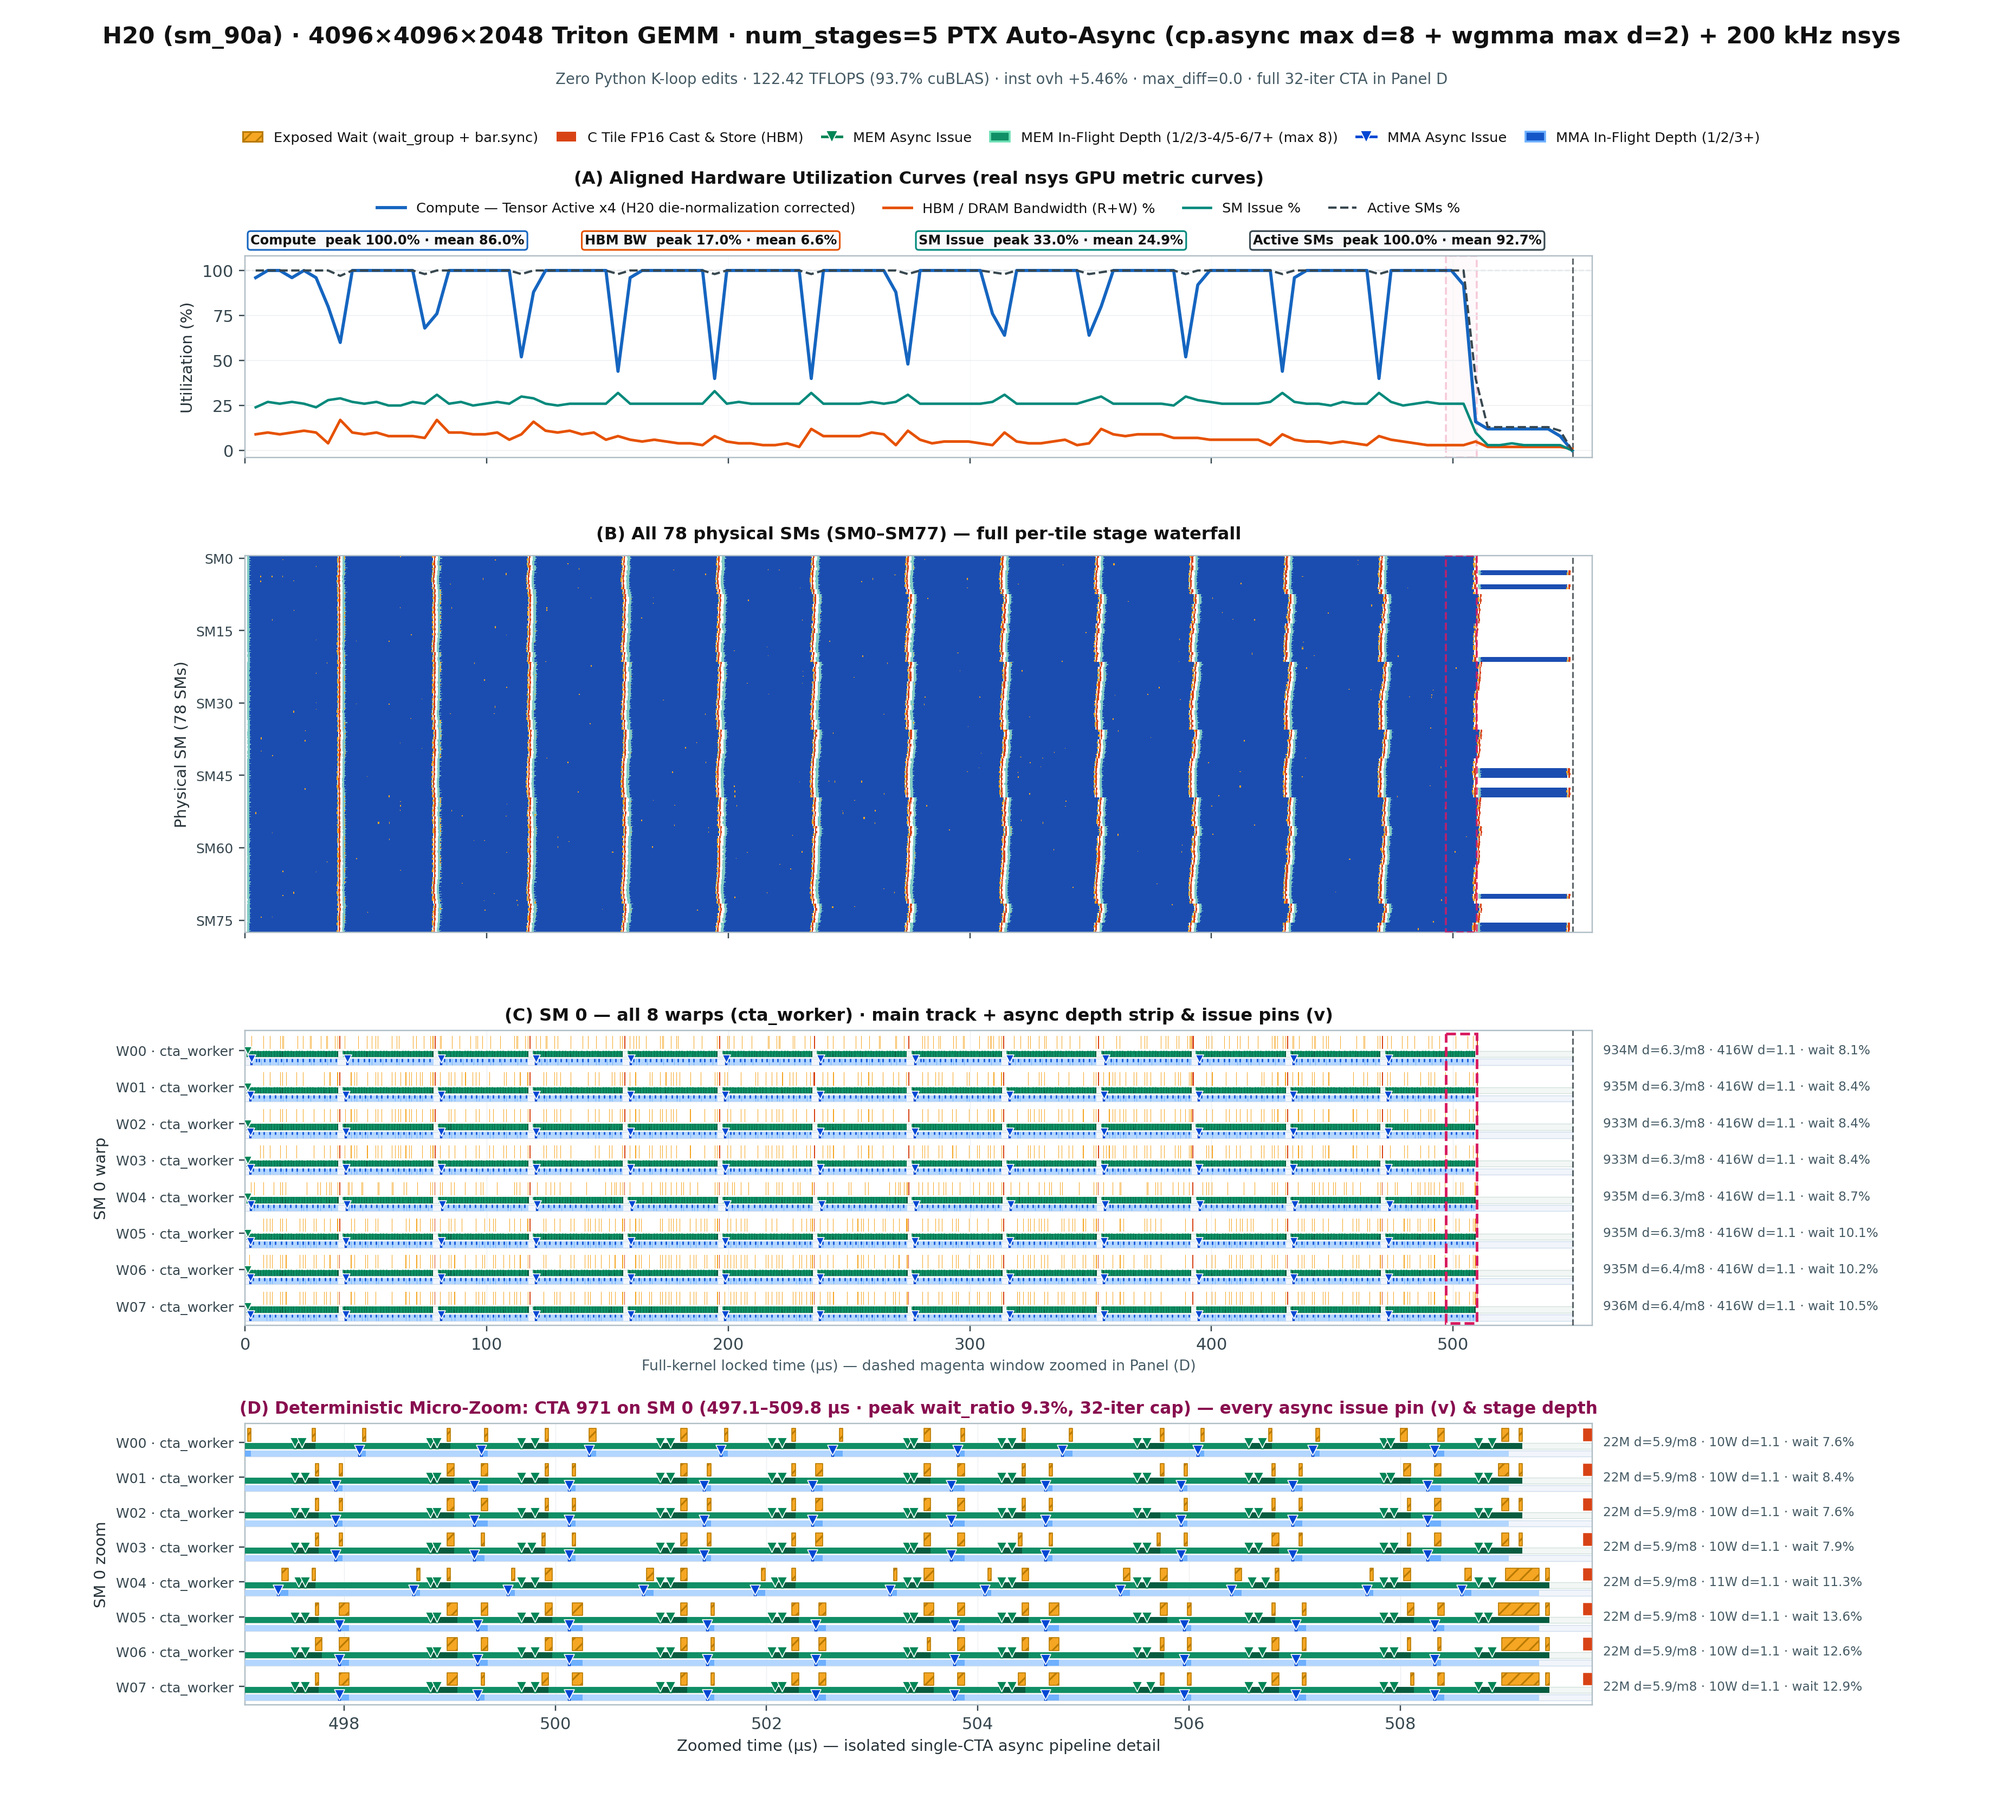
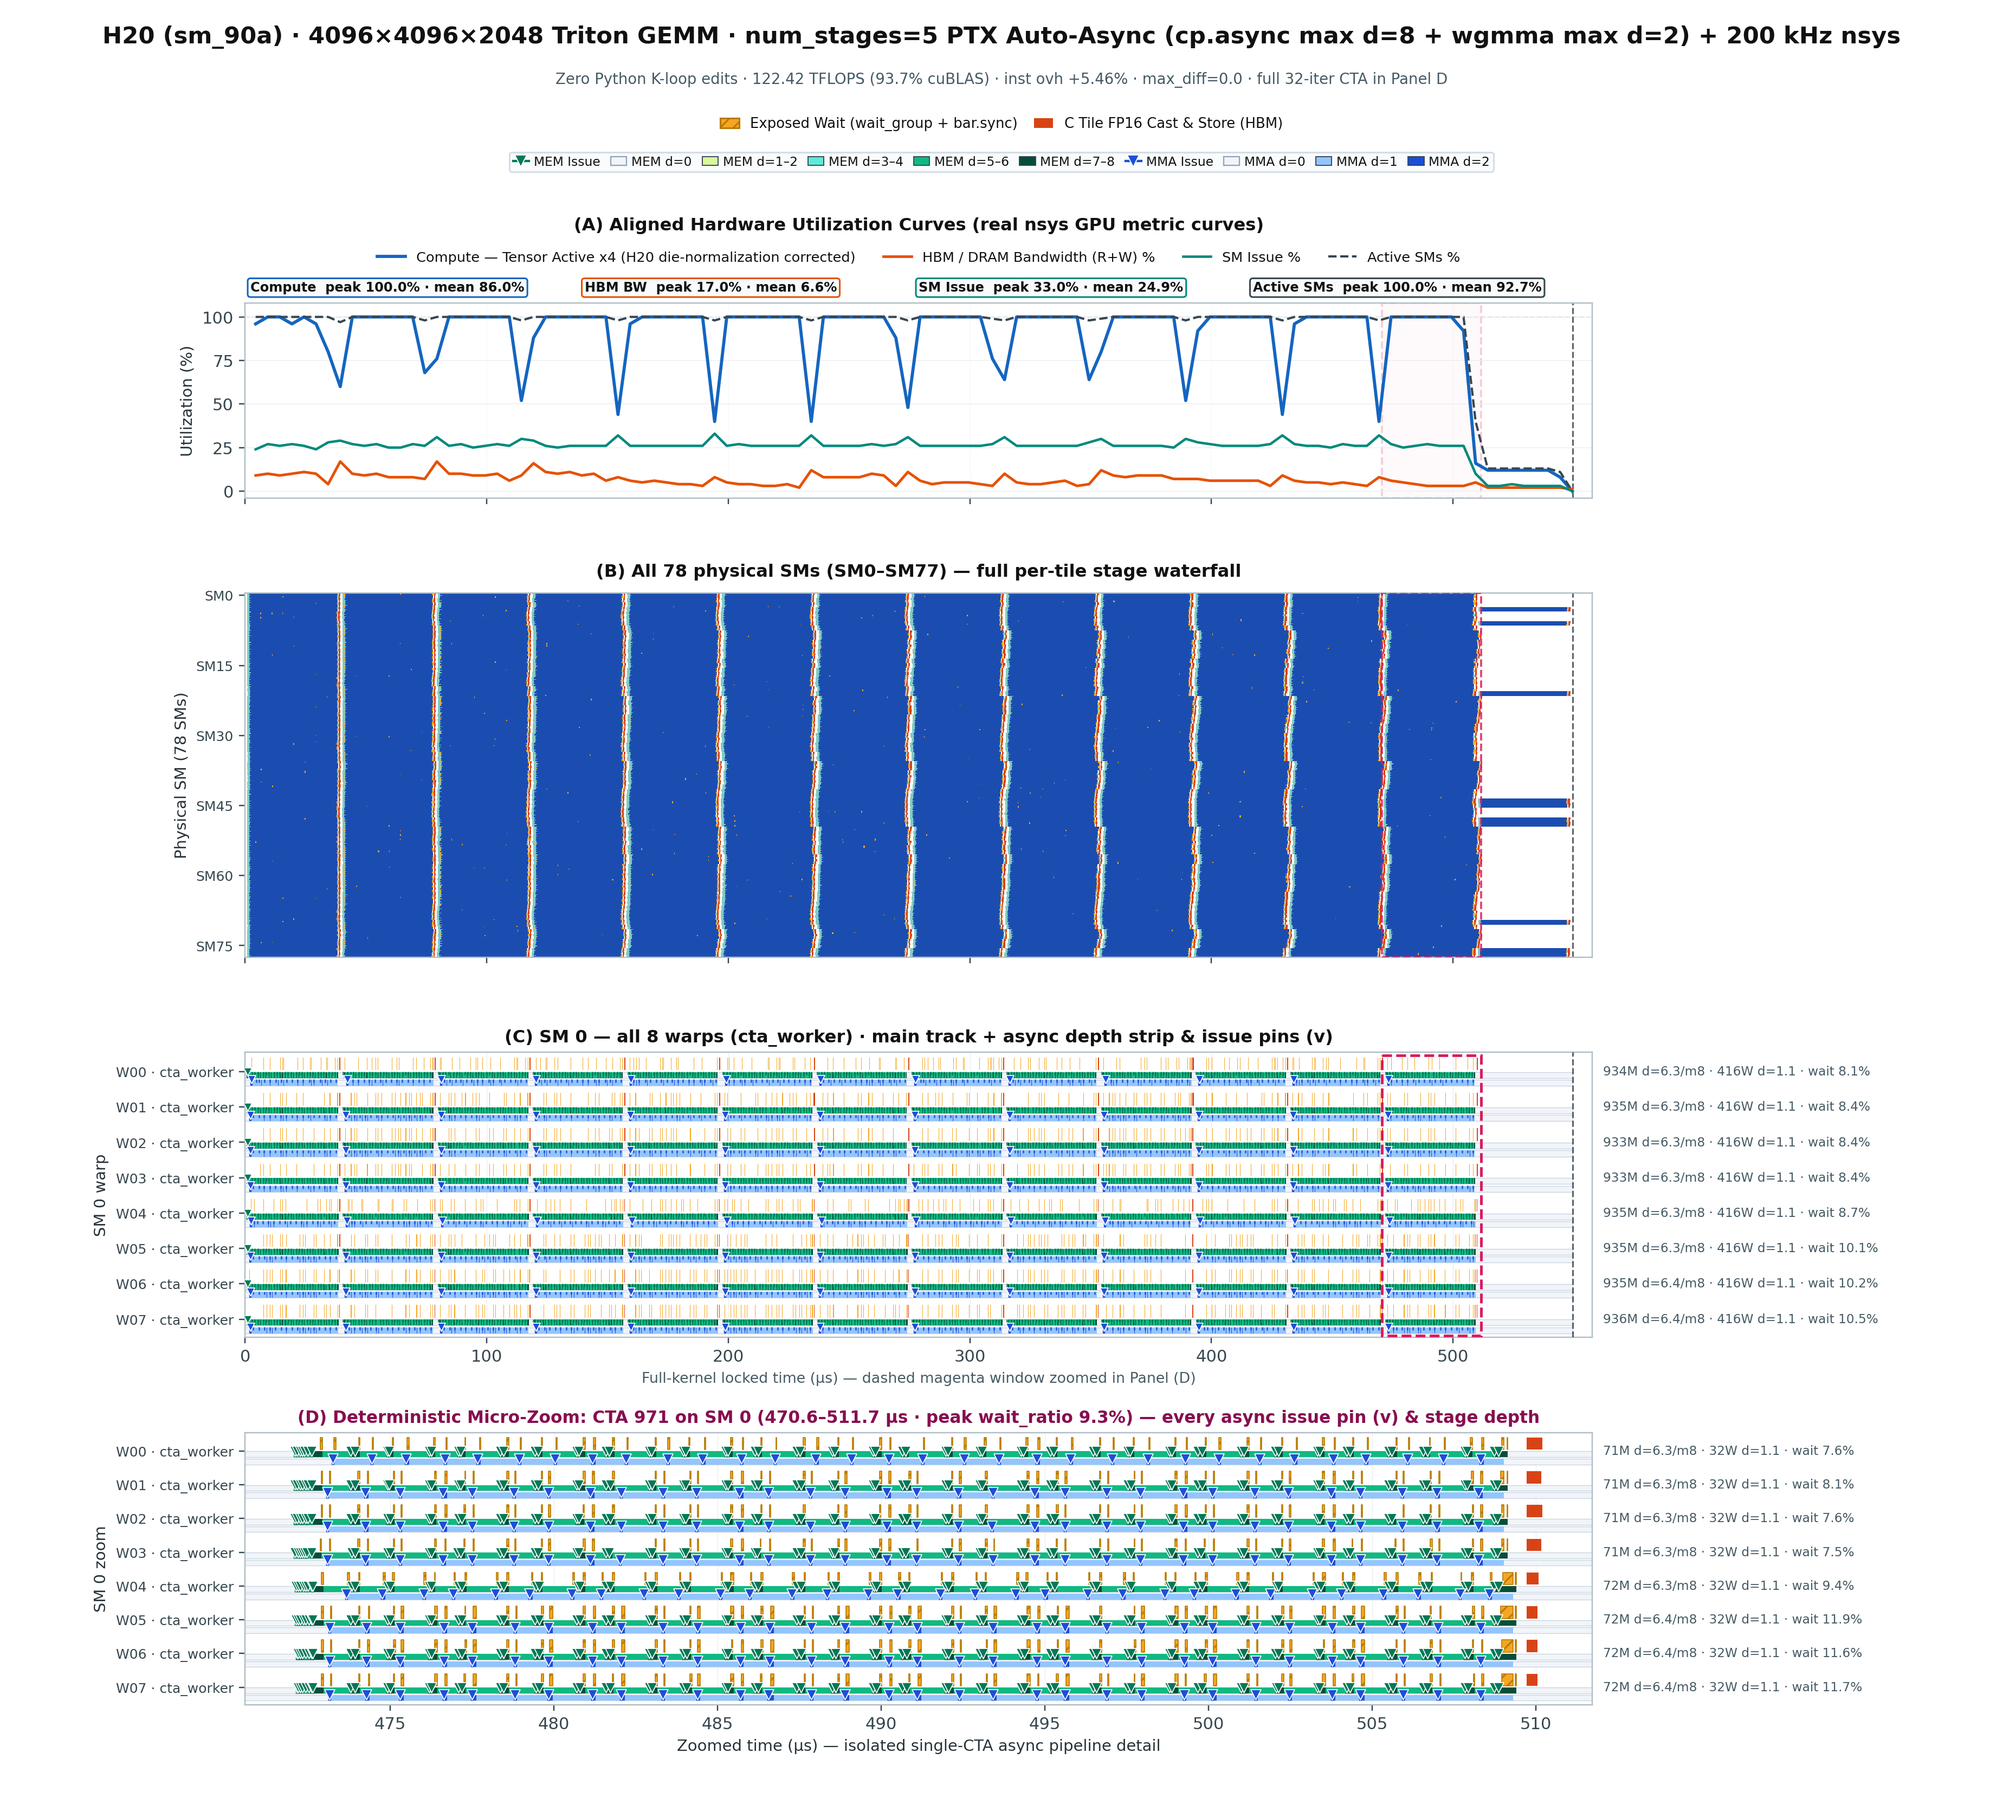
viz: add explicit per-depth color swatches (d=0..max) and full-CTA prologue/drain zoom

diff --git a/weaveprof/viz.py b/weaveprof/viz.py
@@ -70,51 +70,88 @@ _STAGE_DRAW_PRIORITY = {
 _ASYNC_ENGINE_STYLE: Dict[str, Dict[str, Any]] = {
     "mem": {
         "short": "mem",
-        # Unified emerald/green family: 5-shade depth strip + vivid emerald-green ▼ issue pin
-        "depth_colors": ("#B2F2D8", "#6CE0B5", "#28BF8C", "#108E65", "#075C40"),
-        "rail_bg": "#F2F7F5",
-        "rail_ec": "#D2E0DC",
-        "pin_color": "#008556",                              # vivid emerald green ▼ (distinct from blue, never near-black)
+        # High-contrast 5-stop sequential ramp (Lime -> Aqua-Mint -> Vivid Emerald -> Forest -> Deep Pine)
+        "depth_colors": ("#D9F99D", "#5EEAD4", "#10B981", "#047857", "#022C22"),
+        "rail_bg": "#F1F5F9",
+        "rail_ec": "#CBD5E1",
+        "pin_color": "#047857",                              # crisp dark emerald ▼ issue pin
         "pin_label": "Mem Async Issue (v)",
-        "depth_label": "Mem In-Flight Depth (1/2/3/4/5+)",
+        "depth_label": "Mem In-Flight Depth",
         "panel_b_color": "#0E8561",
     },
     "mma": {
         "short": "mma",
-        # Unified azure/cobalt family: 5-shade depth strip + vivid cobalt-blue ▼ issue pin
-        "depth_colors": ("#B3D6FF", "#6EB0FF", "#2E80F0", "#1455C8", "#0B3282"),
-        "rail_bg": "#F1F5FB",
-        "rail_ec": "#CFDCEB",
-        "pin_color": "#0047D4",                              # vivid cobalt blue ▼ (pure blue, never purple/near-black)
+        # High-contrast sequential azure/cobalt ramp
+        "depth_colors": ("#DBEAFE", "#93C5FD", "#3B82F6", "#1D4ED8", "#1E3A8A"),
+        "rail_bg": "#F1F5F9",
+        "rail_ec": "#CBD5E1",
+        "pin_color": "#1D4ED8",                              # vivid cobalt blue ▼ issue pin
         "pin_label": "MMA Async Issue (v)",
-        "depth_label": "MMA In-Flight Depth (1/2/3/4/5+)",
+        "depth_label": "MMA In-Flight Depth",
         "panel_b_color": "#1B4DB1",
     },
 }
 
 
-def _depth_to_bucket(depth: int, scale_max: int) -> int:
-    """Map integer in-flight depth >= 1 into 5 monotonic color buckets (0..4)."""
-    if scale_max >= 7:
-        # Deep pipelines (e.g. Triton num_stages=5..6 -> 6..10 cp.async groups): 1, 2, 3-4, 5-6, 7+
-        if depth <= 1:
-            return 0
-        if depth == 2:
-            return 1
-        if depth <= 4:
-            return 2
-        if depth <= 6:
-            return 3
-        return 4
-    return min(4, max(0, int(depth) - 1))
+def _depth_bins_spec(eng: str, scale_max: int) -> List[Tuple[int, int, str, str]]:
+    """Return explicit ``(lo_depth, hi_depth, hex_color, short_label)`` bins for ``depth >= 1``.
+
+    Adapts to ``scale_max`` so every active depth step (including paired A+B ``cp.async`` steps
+    ``2, 4, 6, 8`` on deep-pipelined Triton GEMM and exact integer steps ``1, 2, 3`` on CDNA3 / TMA)
+    gets a perceptually distinct color AND an exact depth label in the legend.
+    """
+    smax = max(1, int(scale_max))
+    if eng == "mma":
+        if smax <= 1:
+            return [(1, 1, "#2563EB", "d=1")]
+        if smax == 2:
+            return [(1, 1, "#93C5FD", "d=1"), (2, 2, "#1D4ED8", "d=2")]
+        if smax == 3:
+            return [(1, 1, "#BFDBFE", "d=1"), (2, 2, "#3B82F6", "d=2"), (3, 3, "#1E3A8A", "d=3")]
+        return [
+            (1, 1, "#DBEAFE", "d=1"),
+            (2, 2, "#60A5FA", "d=2"),
+            (3, 3, "#2563EB", "d=3"),
+            (4, smax, "#1E3A8A", "d=4" if smax == 4 else f"d=4–{smax}"),
+        ]
+    # MEM engine (`cp.async` / `TMA` / `vmcnt`)
+    if smax <= 1:
+        return [(1, 1, "#10B981", "d=1")]
+    if smax == 2:
+        return [(1, 1, "#86EFAC", "d=1"), (2, 2, "#047857", "d=2")]
+    if smax == 3:
+        return [(1, 1, "#BEF264", "d=1"), (2, 2, "#10B981", "d=2"), (3, 3, "#064E3B", "d=3")]
+    if smax == 4:
+        return [
+            (1, 1, "#D9F99D", "d=1"),
+            (2, 2, "#5EEAD4", "d=2"),
+            (3, 3, "#10B981", "d=3"),
+            (4, 4, "#064E3B", "d=4"),
+        ]
+    if smax in (5, 6):
+        return [
+            (1, 1, "#D9F99D", "d=1"),
+            (2, 2, "#6EE7B7", "d=2"),
+            (3, 3, "#10B981", "d=3"),
+            (4, 4, "#047857", "d=4"),
+            (5, smax, "#022C22", "d=5" if smax == 5 else f"d=5–{smax}"),
+        ]
+    # smax >= 7 (e.g. Triton num_stages=5 -> 8 cp.async groups stepping 2, 4, 6, 8)
+    return [
+        (1, 2, "#D9F99D", "d=1–2"),
+        (3, 4, "#5EEAD4", "d=3–4"),
+        (5, 6, "#10B981", "d=5–6"),
+        (7, smax, "#064E3B", f"d=7–{smax}"),
+    ]
 
 
-def _depth_scale_label(scale_max: int) -> str:
-    if scale_max >= 7:
-        return f"1/2/3-4/5-6/7+ (max {scale_max})"
-    if scale_max >= 4:
-        return f"1/2/3/4/5+ (max {scale_max})"
-    return "1/2/3+"
+def _depth_to_bucket_color(eng: str, depth: int, scale_max: int) -> Tuple[int, str]:
+    bins = _depth_bins_spec(eng, scale_max)
+    d_i = max(1, int(depth))
+    for idx, (lo, hi, col, _lbl) in enumerate(bins):
+        if lo <= d_i <= hi:
+            return idx, col
+    return len(bins) - 1, bins[-1][2]
 
 # Dual-color Inter-Node vs Intra-Node Fabric Palette (NVIDIA IB/RDMA vs NVLink, AMD RDMA vs xGMI).
 # Warm crimson / amber is strictly reserved for Inter-Node RDMA / IB; cool teal / royal blue for
@@ -1027,8 +1064,9 @@ def _pick_micro_zoom_window(
         its = cta_iter_ts.get(c_id) or _dedup_sorted(cta_issues.get(c_id, ()))
         n_it = len(its)
         w_us = cta_wait.get(c_id, 0.0)
-        if n_it > 48:
-            # Cap strictly to 32 iterations centered on worst wait bubble (or steady midpoint)
+        if n_it > 108:
+            # Cap strictly to 32 iterations centered on worst wait bubble when CTA has >108 issues
+            # (Note: 32-K-tile GEMM with 2 cp.async + 1 wgmma per K-tile emits 96 issues <= 108, preserving full prologue & drain!)
             ws = cta_wait_spans.get(c_id, [])
             if ws:
                 peak_t = max(ws, key=lambda x: x[1] - x[0])[0]
@@ -1362,7 +1400,7 @@ def _render_warp_panel(
                 for s0, s1, d in d_segs:
                     cx0, cx1 = max(x_lo, s0), min(x_hi, s1)
                     if cx1 > cx0:
-                        bucket = _depth_to_bucket(d, smax)
+                        bucket, _bcol = _depth_to_bucket_color(eng, d, smax)
                         depth_polys[(eng, bucket)].append([(cx0, y_top), (cx1, y_top), (cx1, y_bot), (cx0, y_bot)])
 
                 # Prominent Fixed-Pixel ▼ Async Issue Pins (with clean Adaptive LOD so emerald depth strip stays crisp!)
@@ -1429,7 +1467,8 @@ def _render_warp_panel(
                     rail_polys[eng], facecolors=st["rail_bg"], edgecolors=st["rail_ec"],
                     linewidths=0.45, zorder=2.2,
                 ))
-            for bucket, dcol in enumerate(st["depth_colors"]):
+            bins_eng = _depth_bins_spec(eng, eng_scale_max.get(eng, 1))
+            for bucket, (_lo_d, _hi_d, dcol, _dlbl) in enumerate(bins_eng):
                 polys = depth_polys.get((eng, bucket))
                 if polys:
                     ax.add_collection(PolyCollection(
@@ -1782,7 +1821,8 @@ def render_swhw_overview_png(
                         label=desc,
                     ))
 
-        # Add clean async engine legend handles (Issue ▼ pin + dynamic 5-shade In-Flight Depth strip) on demand!
+        # Build dedicated, crystal-clear per-depth color key (`async_depth_handles`) so every shade has its exact `d=` label!
+        async_depth_handles: List[Any] = []
         rep_eng_max: Dict[str, int] = {}
         for eng in active_async_engines:
             by_wc: Dict[Tuple[int, int], List[Tuple[float, float]]] = defaultdict(list)
@@ -1793,17 +1833,23 @@ def render_swhw_overview_png(
 
         for eng in active_async_engines:
             st = _ASYNC_ENGINE_STYLE[eng]
-            top_legend_handles.append(Line2D(
+            eng_u = eng.upper()
+            async_depth_handles.append(Line2D(
                 [0], [0], marker="v", color=st["pin_color"], markerfacecolor=st["pin_color"],
-                markeredgecolor="#FFFFFF", markeredgewidth=0.6, markersize=7.5, lw=1.6,
-                label=f"{eng.upper()} Async Issue",
+                markeredgecolor="#FFFFFF", markeredgewidth=0.6, markersize=7.2, lw=1.4,
+                label=f"{eng_u} Issue",
             ))
             if has_async_depth.get(eng):
-                smax = rep_eng_max.get(eng, 3)
-                top_legend_handles.append(Patch(
-                    facecolor=st["depth_colors"][3], edgecolor=st["depth_colors"][1], linewidth=1.2,
-                    label=f"{eng.upper()} In-Flight Depth ({_depth_scale_label(smax)})",
+                smax = max(1, rep_eng_max.get(eng, 1))
+                async_depth_handles.append(Patch(
+                    facecolor=st["rail_bg"], edgecolor="#94A3B8", linewidth=0.75,
+                    label=f"{eng_u} d=0",
                 ))
+                for _lo_d, _hi_d, dcol, dlbl in _depth_bins_spec(eng, smax):
+                    async_depth_handles.append(Patch(
+                        facecolor=dcol, edgecolor="#334155", linewidth=0.6,
+                        label=f"{eng_u} {dlbl}",
+                    ))
 
         def _span_color(sp: Mapping[str, Any]) -> str:
             if sp.get("async_engine") in _ASYNC_ENGINE_STYLE:
@@ -1811,17 +1857,24 @@ def render_swhw_overview_png(
             lbl = str(sp.get("label") or sp["sem"]).strip()
             return stage_color_map.get((sp["sem"], lbl), STAGE_COLORS.get(sp["sem"], _DEFAULT_COLOR))[0]
 
-        n_leg_rows = 1
+        has_second_async_leg = bool(async_depth_handles)
         if top_legend_handles:
             n_leg_cols = min(len(top_legend_handles), 7)
-            n_leg_rows = (len(top_legend_handles) + n_leg_cols - 1) // max(n_leg_cols, 1)
-            leg_y = 0.934 if has_zoom else (0.928 if has_hw else 0.916)
+            leg_y = (0.942 if has_second_async_leg else 0.934) if has_zoom else (0.934 if has_hw else 0.916)
             fig.legend(
                 handles=top_legend_handles, loc="upper center", bbox_to_anchor=(0.5, leg_y),
                 ncol=n_leg_cols, frameon=False,
-                fontsize=7.9 if n_leg_cols >= 7 else 8.4,
-                handlelength=1.35 if n_leg_cols >= 7 else 1.4,
-                columnspacing=0.95 if n_leg_cols >= 7 else 1.35,
+                fontsize=8.1 if n_leg_cols >= 7 else 8.5,
+                handlelength=1.35, columnspacing=1.15,
+            )
+        if has_second_async_leg:
+            n_acol = min(len(async_depth_handles), 11)
+            aleg_y = 0.919 if has_zoom else (0.910 if has_hw else 0.892)
+            fig.legend(
+                handles=async_depth_handles, loc="upper center", bbox_to_anchor=(0.5, aleg_y),
+                ncol=n_acol, frameon=True, facecolor="#F8FAFC", edgecolor="#CBD5E1",
+                fontsize=7.65 if n_acol >= 9 else 8.0,
+                handlelength=1.25, handletextpad=0.38, columnspacing=0.82, borderpad=0.28,
             )
 
     x_pad = max(1.0, t_max * 0.015)
@@ -2111,7 +2164,9 @@ def render_swhw_overview_png(
     max_lbl = max((len(s) for s in yt_labels), default=10)
     left_m = max(0.098, min(0.185, 0.052 + 0.0044 * max_lbl))
     right_m = (0.795 if len(active_async_engines) >= 2 else 0.825) if has_async_rep else 0.985
-    extra_leg = 0.022 if (not dual_fabric and len(top_legend_handles) > 7) else 0.0
+    extra_leg = (0.022 if (not dual_fabric and len(top_legend_handles) > 7) else 0.0) + (
+        0.026 if (not dual_fabric and bool(active_async_engines)) else 0.0
+    )
     if has_zoom:
         top_m = min(0.862, 1.0 - 2.15 / fig_h) - extra_leg if has_hw else min(0.870, 1.0 - 1.85 / fig_h) - extra_leg
     else:
